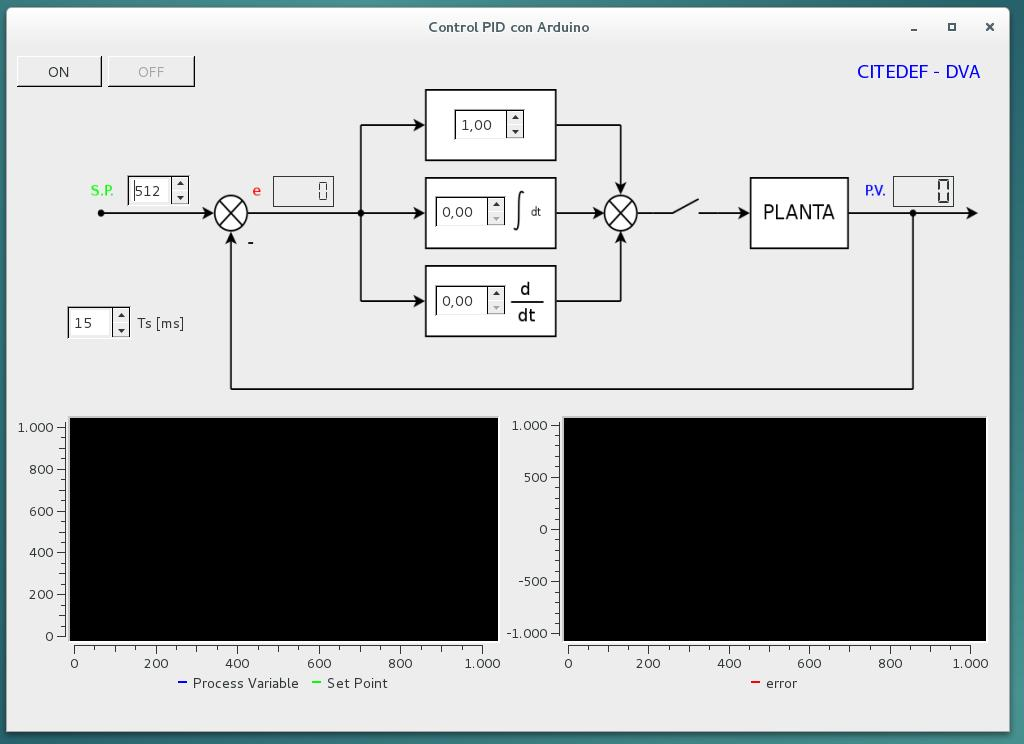
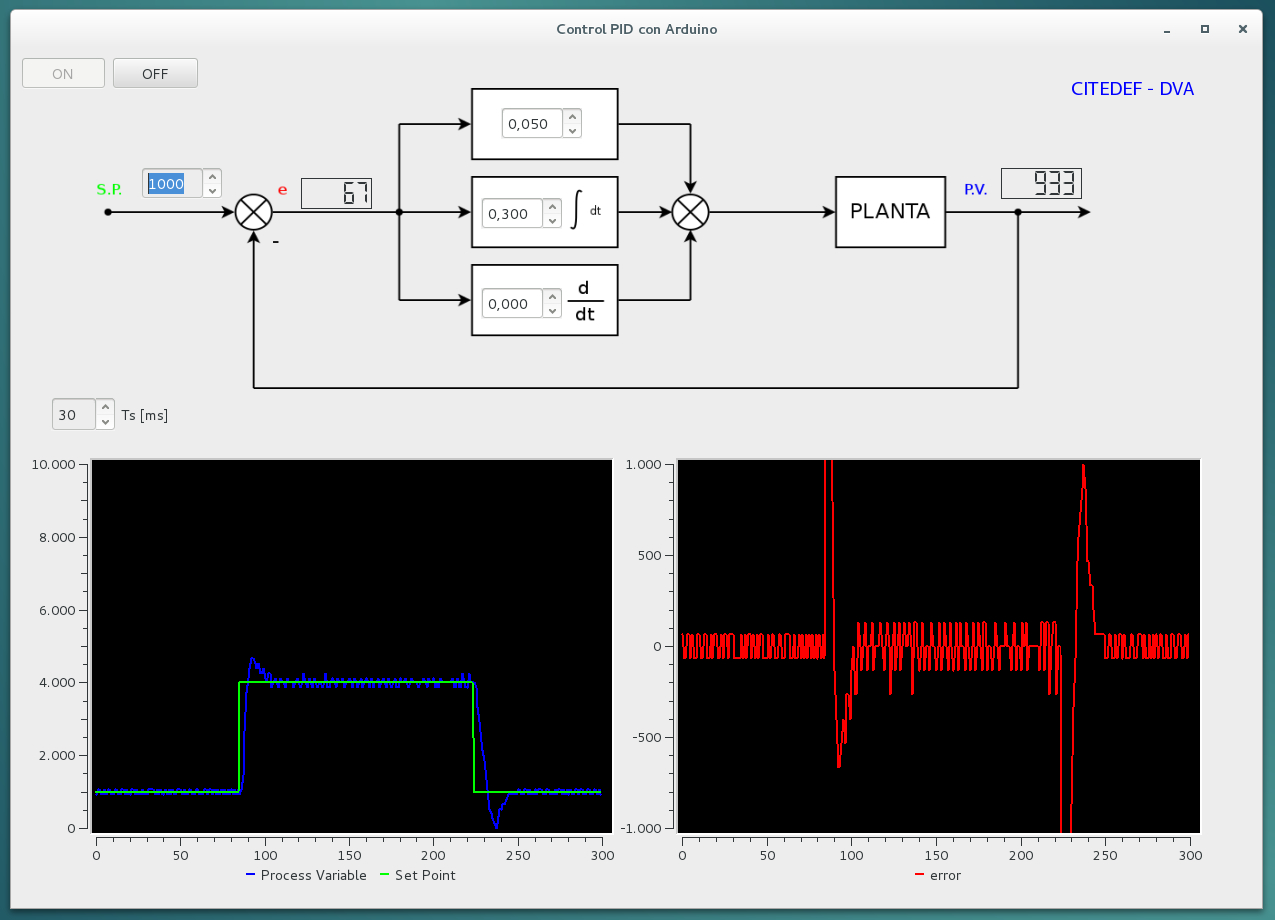
modif. varias

diff --git a/main_window.py b/main_window.py
@@ -2,8 +2,8 @@
 
 # Form implementation generated from reading ui file 'main_window.ui'
 #
-# Created: Mon Nov  4 11:24:06 2013
-#      by: PyQt4 UI code generator 4.9.3
+# Created: Wed Jun 15 12:09:22 2016
+#      by: PyQt4 UI code generator 4.11.2
 #
 # WARNING! All changes made in this file will be lost!
 
@@ -13,16 +13,25 @@ from PyQt4.Qwt5 import QwtPlot
 try:
     _fromUtf8 = QtCore.QString.fromUtf8
 except AttributeError:
-    _fromUtf8 = lambda s: s
+    def _fromUtf8(s):
+        return s
+
+try:
+    _encoding = QtGui.QApplication.UnicodeUTF8
+    def _translate(context, text, disambig):
+        return QtGui.QApplication.translate(context, text, disambig, _encoding)
+except AttributeError:
+    def _translate(context, text, disambig):
+        return QtGui.QApplication.translate(context, text, disambig)
 
 class Ui_MainWindow(object):
     def setupUi(self, MainWindow):
         MainWindow.setObjectName(_fromUtf8("MainWindow"))
-        MainWindow.resize(1002, 685)
+        MainWindow.resize(1251, 901)
         self.centralwidget = QtGui.QWidget(MainWindow)
         self.centralwidget.setObjectName(_fromUtf8("centralwidget"))
         self.pv = QtGui.QLCDNumber(self.centralwidget)
-        self.pv.setGeometry(QtCore.QRect(886, 130, 61, 31))
+        self.pv.setGeometry(QtCore.QRect(990, 120, 81, 31))
         font = QtGui.QFont()
         font.setBold(False)
         font.setWeight(50)
@@ -30,18 +39,19 @@ class Ui_MainWindow(object):
         self.pv.setFont(font)
         self.pv.setFrameShape(QtGui.QFrame.Panel)
         self.pv.setFrameShadow(QtGui.QFrame.Plain)
-        self.pv.setNumDigits(4)
-        self.pv.setDigitCount(4)
+        self.pv.setNumDigits(5)
+        self.pv.setDigitCount(5)
         self.pv.setSegmentStyle(QtGui.QLCDNumber.Flat)
         self.pv.setObjectName(_fromUtf8("pv"))
         self.sp = QtGui.QSpinBox(self.centralwidget)
-        self.sp.setGeometry(QtCore.QRect(120, 129, 63, 31))
+        self.sp.setGeometry(QtCore.QRect(130, 120, 81, 31))
         self.sp.setMinimum(100)
-        self.sp.setMaximum(900)
-        self.sp.setProperty("value", 512)
+        self.sp.setMaximum(15000)
+        self.sp.setSingleStep(100)
+        self.sp.setProperty("value", 2000)
         self.sp.setObjectName(_fromUtf8("sp"))
         self.layoutWidget = QtGui.QWidget(self.centralwidget)
-        self.layoutWidget.setGeometry(QtCore.QRect(60, 260, 121, 41))
+        self.layoutWidget.setGeometry(QtCore.QRect(40, 350, 131, 41))
         self.layoutWidget.setObjectName(_fromUtf8("layoutWidget"))
         self.formLayout_2 = QtGui.QFormLayout(self.layoutWidget)
         self.formLayout_2.setFieldGrowthPolicy(QtGui.QFormLayout.AllNonFixedFieldsGrow)
@@ -49,7 +59,7 @@ class Ui_MainWindow(object):
         self.formLayout_2.setObjectName(_fromUtf8("formLayout_2"))
         self.Ts = QtGui.QSpinBox(self.layoutWidget)
         self.Ts.setMinimum(10)
-        self.Ts.setMaximum(50)
+        self.Ts.setMaximum(100)
         self.Ts.setProperty("value", 15)
         self.Ts.setObjectName(_fromUtf8("Ts"))
         self.formLayout_2.setWidget(0, QtGui.QFormLayout.LabelRole, self.Ts)
@@ -57,25 +67,28 @@ class Ui_MainWindow(object):
         self.label_4.setObjectName(_fromUtf8("label_4"))
         self.formLayout_2.setWidget(0, QtGui.QFormLayout.FieldRole, self.label_4)
         self.Kp = QtGui.QDoubleSpinBox(self.centralwidget)
-        self.Kp.setGeometry(QtCore.QRect(447, 63, 71, 31))
+        self.Kp.setGeometry(QtCore.QRect(490, 60, 81, 31))
         self.Kp.setAutoFillBackground(False)
+        self.Kp.setDecimals(3)
         self.Kp.setMaximum(999.9)
-        self.Kp.setSingleStep(0.1)
+        self.Kp.setSingleStep(0.01)
         self.Kp.setProperty("value", 1.0)
         self.Kp.setObjectName(_fromUtf8("Kp"))
         self.Kd = QtGui.QDoubleSpinBox(self.centralwidget)
-        self.Kd.setGeometry(QtCore.QRect(428, 239, 71, 31))
+        self.Kd.setGeometry(QtCore.QRect(470, 240, 81, 31))
+        self.Kd.setDecimals(3)
         self.Kd.setMaximum(999.9)
-        self.Kd.setSingleStep(0.1)
+        self.Kd.setSingleStep(0.001)
         self.Kd.setObjectName(_fromUtf8("Kd"))
         self.Ki = QtGui.QDoubleSpinBox(self.centralwidget)
-        self.Ki.setGeometry(QtCore.QRect(428, 150, 71, 31))
+        self.Ki.setGeometry(QtCore.QRect(470, 150, 81, 31))
+        self.Ki.setDecimals(3)
         self.Ki.setMaximum(999.9)
-        self.Ki.setSingleStep(0.1)
+        self.Ki.setSingleStep(0.01)
         self.Ki.setObjectName(_fromUtf8("Ki"))
         self.pid_off = QtGui.QLabel(self.centralwidget)
         self.pid_off.setEnabled(True)
-        self.pid_off.setGeometry(QtCore.QRect(61, 43, 911, 301))
+        self.pid_off.setGeometry(QtCore.QRect(60, 40, 1021, 301))
         font = QtGui.QFont()
         font.setKerning(True)
         self.pid_off.setFont(font)
@@ -84,7 +97,7 @@ class Ui_MainWindow(object):
         self.pid_off.setScaledContents(True)
         self.pid_off.setObjectName(_fromUtf8("pid_off"))
         self.layoutWidget1 = QtGui.QWidget(self.centralwidget)
-        self.layoutWidget1.setGeometry(QtCore.QRect(10, 370, 971, 281))
+        self.layoutWidget1.setGeometry(QtCore.QRect(20, 410, 1171, 431))
         self.layoutWidget1.setObjectName(_fromUtf8("layoutWidget1"))
         self.horizontalLayout = QtGui.QHBoxLayout(self.layoutWidget1)
         self.horizontalLayout.setMargin(0)
@@ -96,7 +109,7 @@ class Ui_MainWindow(object):
         self.plot_e.setObjectName(_fromUtf8("plot_e"))
         self.horizontalLayout.addWidget(self.plot_e)
         self.e = QtGui.QLCDNumber(self.centralwidget)
-        self.e.setGeometry(QtCore.QRect(266, 130, 61, 31))
+        self.e.setGeometry(QtCore.QRect(290, 130, 71, 31))
         font = QtGui.QFont()
         font.setBold(False)
         font.setWeight(50)
@@ -108,11 +121,11 @@ class Ui_MainWindow(object):
         self.e.setSegmentStyle(QtGui.QLCDNumber.Flat)
         self.e.setObjectName(_fromUtf8("e"))
         self.label = QtGui.QLabel(self.centralwidget)
-        self.label.setGeometry(QtCore.QRect(850, 10, 141, 31))
+        self.label.setGeometry(QtCore.QRect(1060, 20, 131, 41))
         self.label.setObjectName(_fromUtf8("label"))
         self.pid_on = QtGui.QLabel(self.centralwidget)
         self.pid_on.setEnabled(True)
-        self.pid_on.setGeometry(QtCore.QRect(61, 43, 911, 301))
+        self.pid_on.setGeometry(QtCore.QRect(60, 40, 1021, 301))
         font = QtGui.QFont()
         font.setKerning(True)
         self.pid_on.setFont(font)
@@ -146,9 +159,9 @@ class Ui_MainWindow(object):
         QtCore.QMetaObject.connectSlotsByName(MainWindow)
 
     def retranslateUi(self, MainWindow):
-        MainWindow.setWindowTitle(QtGui.QApplication.translate("MainWindow", "Control PID con Arduino", None, QtGui.QApplication.UnicodeUTF8))
-        self.label_4.setText(QtGui.QApplication.translate("MainWindow", "Ts [ms]", None, QtGui.QApplication.UnicodeUTF8))
-        self.label.setText(QtGui.QApplication.translate("MainWindow", "<html><head/><body><p><span style=\" font-size:14pt; color:#0000ff;\">CITEDEF - DVA</span></p></body></html>", None, QtGui.QApplication.UnicodeUTF8))
-        self.boton_pid_on.setText(QtGui.QApplication.translate("MainWindow", "ON", None, QtGui.QApplication.UnicodeUTF8))
-        self.boton_pid_off.setText(QtGui.QApplication.translate("MainWindow", "OFF", None, QtGui.QApplication.UnicodeUTF8))
+        MainWindow.setWindowTitle(_translate("MainWindow", "Control PID con Arduino", None))
+        self.label_4.setText(_translate("MainWindow", "Ts [ms]", None))
+        self.label.setText(_translate("MainWindow", "<html><head/><body><p><span style=\" font-size:14pt; color:#0000ff;\">CITEDEF - DVA</span></p></body></html>", None))
+        self.boton_pid_on.setText(_translate("MainWindow", "ON", None))
+        self.boton_pid_off.setText(_translate("MainWindow", "OFF", None))
 

diff --git a/pid_GUI.py b/pid_GUI.py
@@ -1,15 +1,14 @@
 #! /usr/bin/python
-
 ##############################################################################
 #
 # PID GUI 
 #
 # Description:
 #   Interfaz para el ajuste interactivo de los parametros del
-#   algoritmo PID realizado en Arduino  
+#   algoritmo PID que fue implementado en Arduino  
 #
 # Author:
-#   Hugo Arboleas, <harboleas@citedef.gob.ar>
+#   Hugo Arboleas <harboleas@citedef.gob.ar>
 #
 ##############################################################################
 # 
@@ -30,8 +29,6 @@
 #
 #############################################################################
 
-
-
 from PyQt4 import QtCore 
 from PyQt4 import QtGui
 from PyQt4.Qwt5 import *
@@ -41,7 +38,6 @@ import serial
 import struct
 import time
 
-##################################################################
 
 class Adquisicion(QtCore.QThread) :   
     "Thread para la adquisicion de datos serie"
@@ -53,13 +49,12 @@ class Adquisicion(QtCore.QThread) :
                 
     def run(self) :
         while True :
-            data_read = self.port.read(2)
+            # Leo la process variable (2 Bytes) enviada por el arduino  
+            data_read = self.port.read(2) 
             if len(data_read) == 2 :
                 data = struct.unpack("h", data_read)[0]   # convierte 2 bytes a int 
                 self.emit(QtCore.SIGNAL("data_ready"), data) 
             self.msleep(5)    
-
-###############################################################################################################
          
 
 class App(QtGui.QMainWindow) :
@@ -78,14 +73,14 @@ class App(QtGui.QMainWindow) :
         
         try :
             # Provoco un reset del Arduino para una conexion limpia
-            arduino = serial.Serial("/dev/ttyACM0")
+            arduino = serial.Serial("/dev/ttyUSB0")
             arduino.setDTR(False)
             time.sleep(1)
             arduino.flushInput()
             arduino.setDTR(True)
             arduino.close()
 
-            self.port = serial.Serial("/dev/ttyACM0", 115200, timeout = 0)    
+            self.port = serial.Serial("/dev/ttyUSB0", 115200, timeout = 0)    
         except :
             self.port = None
             print("No se puede abrir el puerto")
@@ -95,11 +90,10 @@ class App(QtGui.QMainWindow) :
 	    self.adquisicion.start()
 
         self.main_win.plot.insertLegend(QwtLegend(), QwtPlot.BottomLegend) 
-        
         self.main_win.plot_e.insertLegend(QwtLegend(), QwtPlot.BottomLegend) 
 
         self.main_win.plot.setCanvasBackground(QtCore.Qt.black)
-        self.main_win.plot.setAxisScale(0, 0, 1024)
+        self.main_win.plot.setAxisScale(0, 0, 10000)
         self.pv_graf = QwtPlotCurve("Process Variable")
         self.pv_graf.attach(self.main_win.plot)
         self.pv_graf.setPen(QtGui.QPen(QtCore.Qt.blue, 2))
@@ -109,7 +103,7 @@ class App(QtGui.QMainWindow) :
         self.sp_graf.setPen(QtGui.QPen(QtCore.Qt.green, 2))
 
         self.main_win.plot_e.setCanvasBackground(QtCore.Qt.black)
-        self.main_win.plot_e.setAxisScale(0, -1024, 1024)
+        self.main_win.plot_e.setAxisScale(0, -1000, 1000)
         self.e_graf = QwtPlotCurve("error")
         self.e_graf.attach(self.main_win.plot_e)
         self.e_graf.setPen(QtGui.QPen(QtCore.Qt.red, 2))
@@ -118,7 +112,6 @@ class App(QtGui.QMainWindow) :
         self.sp_y = [0 for i in range(300)]
         self.e_y = [0 for i in range(300)]
         self.x = range(300)
-
 
         self.pid_on = 0
         self.set_param()
@@ -134,10 +127,10 @@ class App(QtGui.QMainWindow) :
         self.Kd = self.main_win.Kd.value()
         if self.port :
             self.port.write(struct.pack("B", self.pid_on))     # Envia 1 byte (PID on/off)
-            self.port.write(struct.pack("B", self.Ts))         # Envia 1 byte (Sampling period)
-            self.port.write(struct.pack("f", self.Kp))         # Envia 4 bytes (Kp gain)
-            self.port.write(struct.pack("f", self.Ki))         # Envia 4 bytes (Ki gain)
-            self.port.write(struct.pack("f", self.Kd))         # Envia 4 bytes (Kd gain)
+            self.port.write(struct.pack("B", self.Ts))         # Envia 1 byte (Ts = Tiempo de muestreo)
+            self.port.write(struct.pack("f", self.Kp))         # Envia 4 bytes (Kp)
+            self.port.write(struct.pack("f", self.Ki))         # Envia 4 bytes (Ki)
+            self.port.write(struct.pack("f", self.Kd))         # Envia 4 bytes (Kd)
             self.port.write(struct.pack("h", self.sp))         # Envia 2 bytes (Set Point)
 
     def on(self) :          
@@ -157,11 +150,13 @@ class App(QtGui.QMainWindow) :
         self.main_win.pid_on.setVisible(False)
         self.pid_on = 0
         self.set_param()
-        
 
     def update_data(self, data) :
-        
-        self.pv_y = self.pv_y[1:] + [data]
+
+        # Actualiza los datos de los graficos
+        # cada vez que recibe un dato del arduino (cada Ts ms)
+
+        self.pv_y = self.pv_y[1:] + [data] 
         self.sp_y = self.sp_y[1:] + [self.sp]
         self.e_y = self.e_y[1:] + [self.sp - data]
 
@@ -174,7 +169,6 @@ class App(QtGui.QMainWindow) :
 
         self.main_win.plot.replot()
         self.main_win.plot_e.replot()
-
 
 if __name__ == "__main__" :   
     app = App()         
